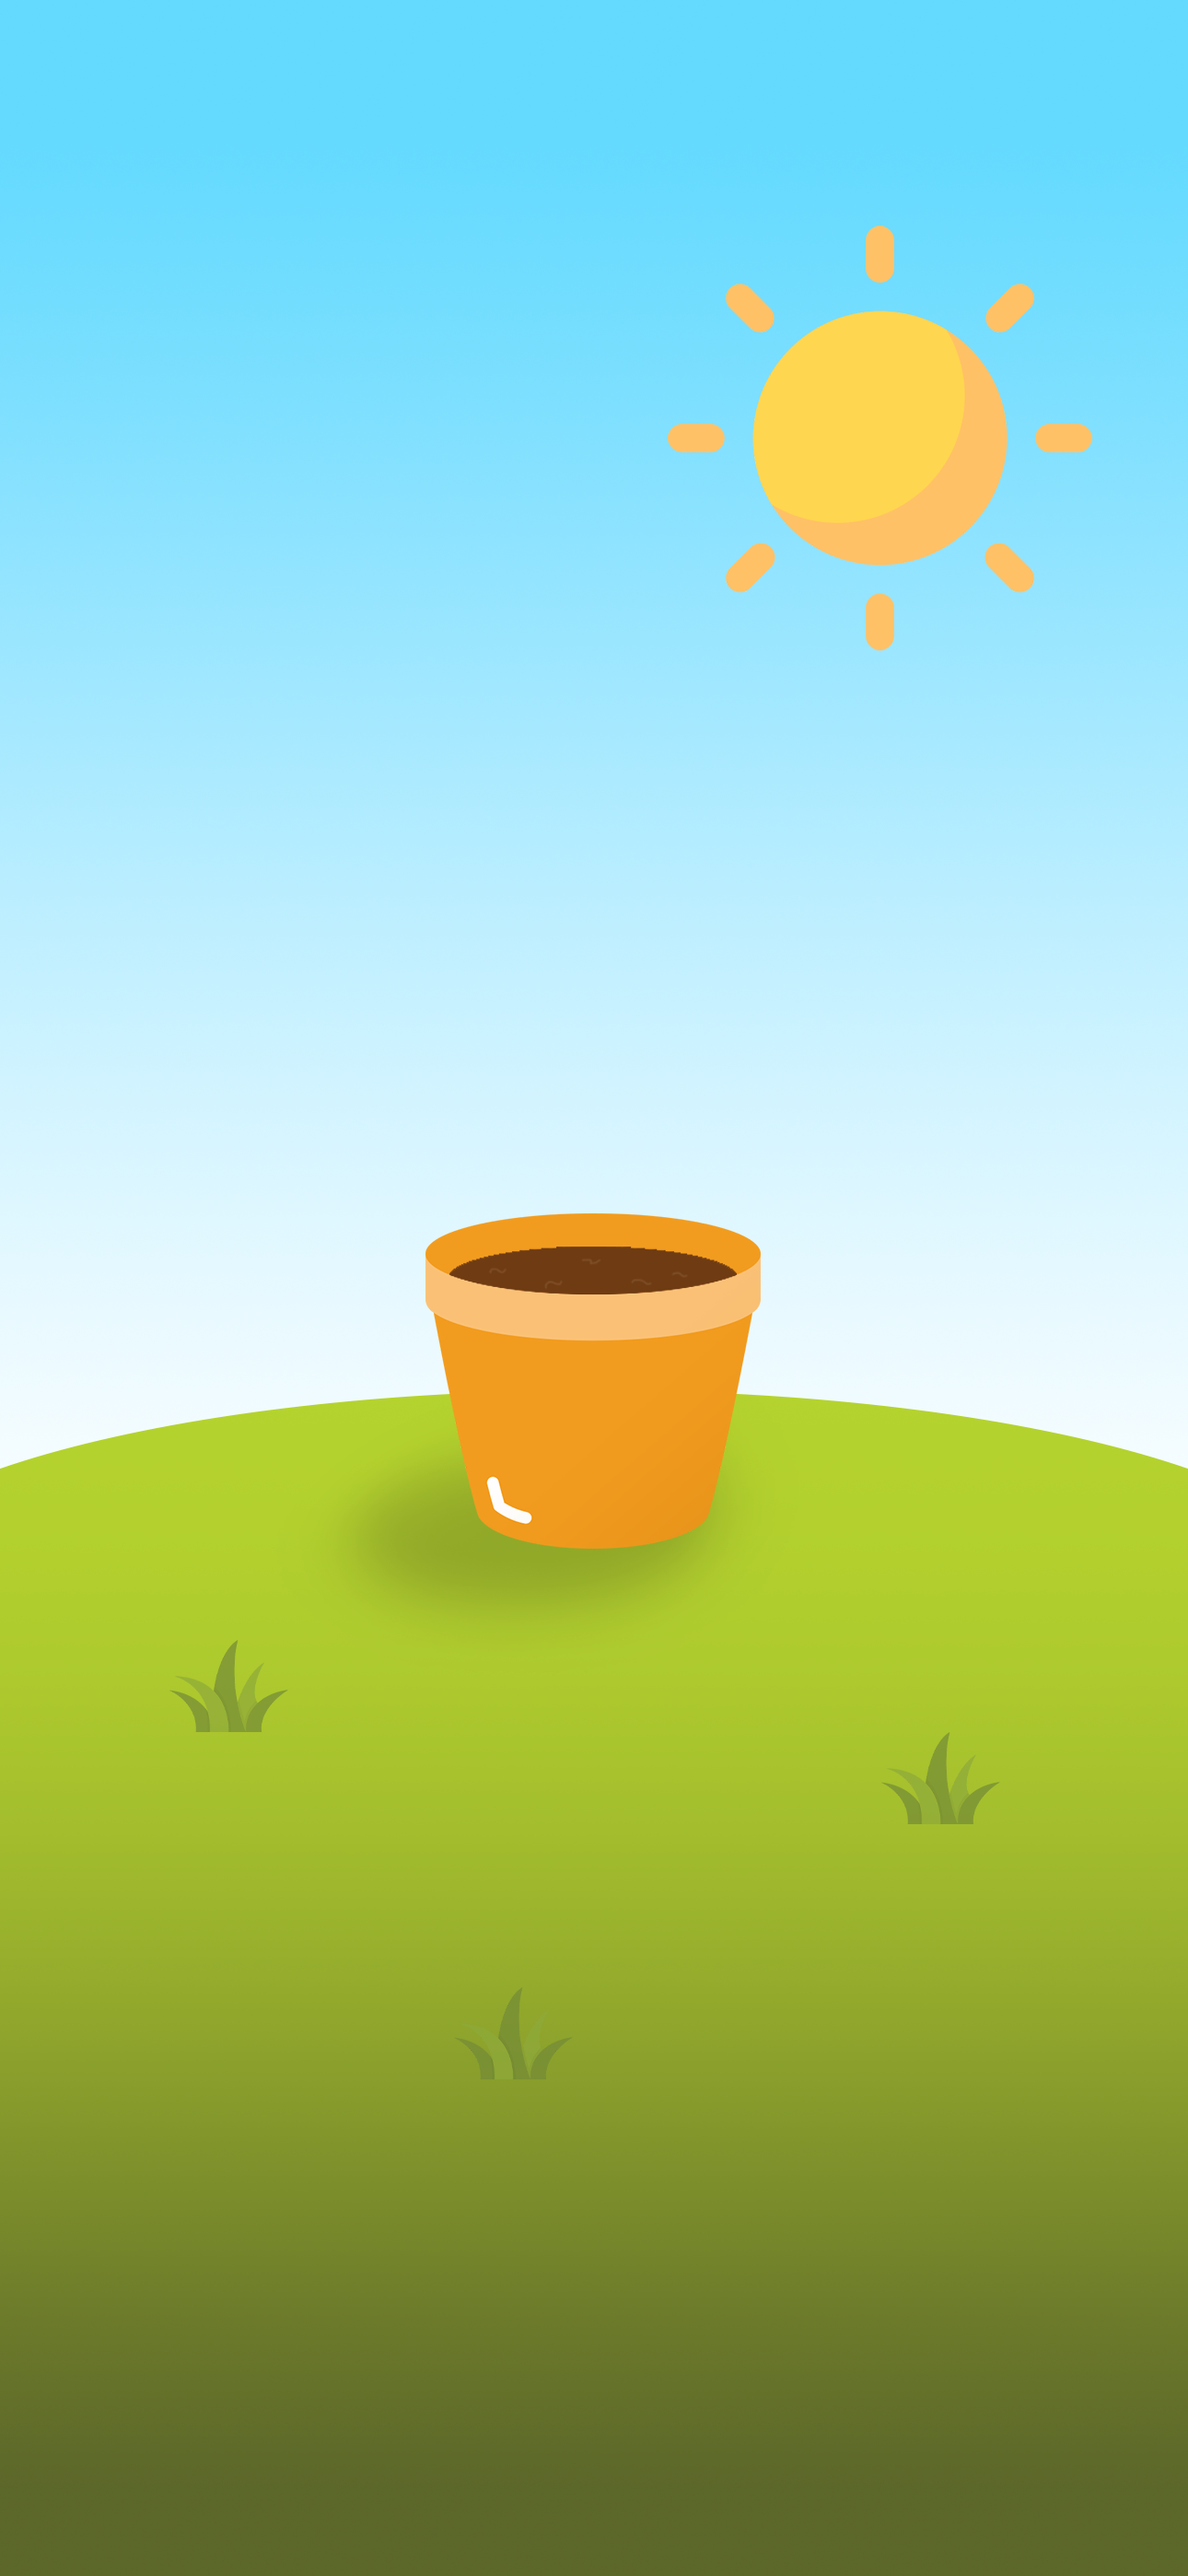
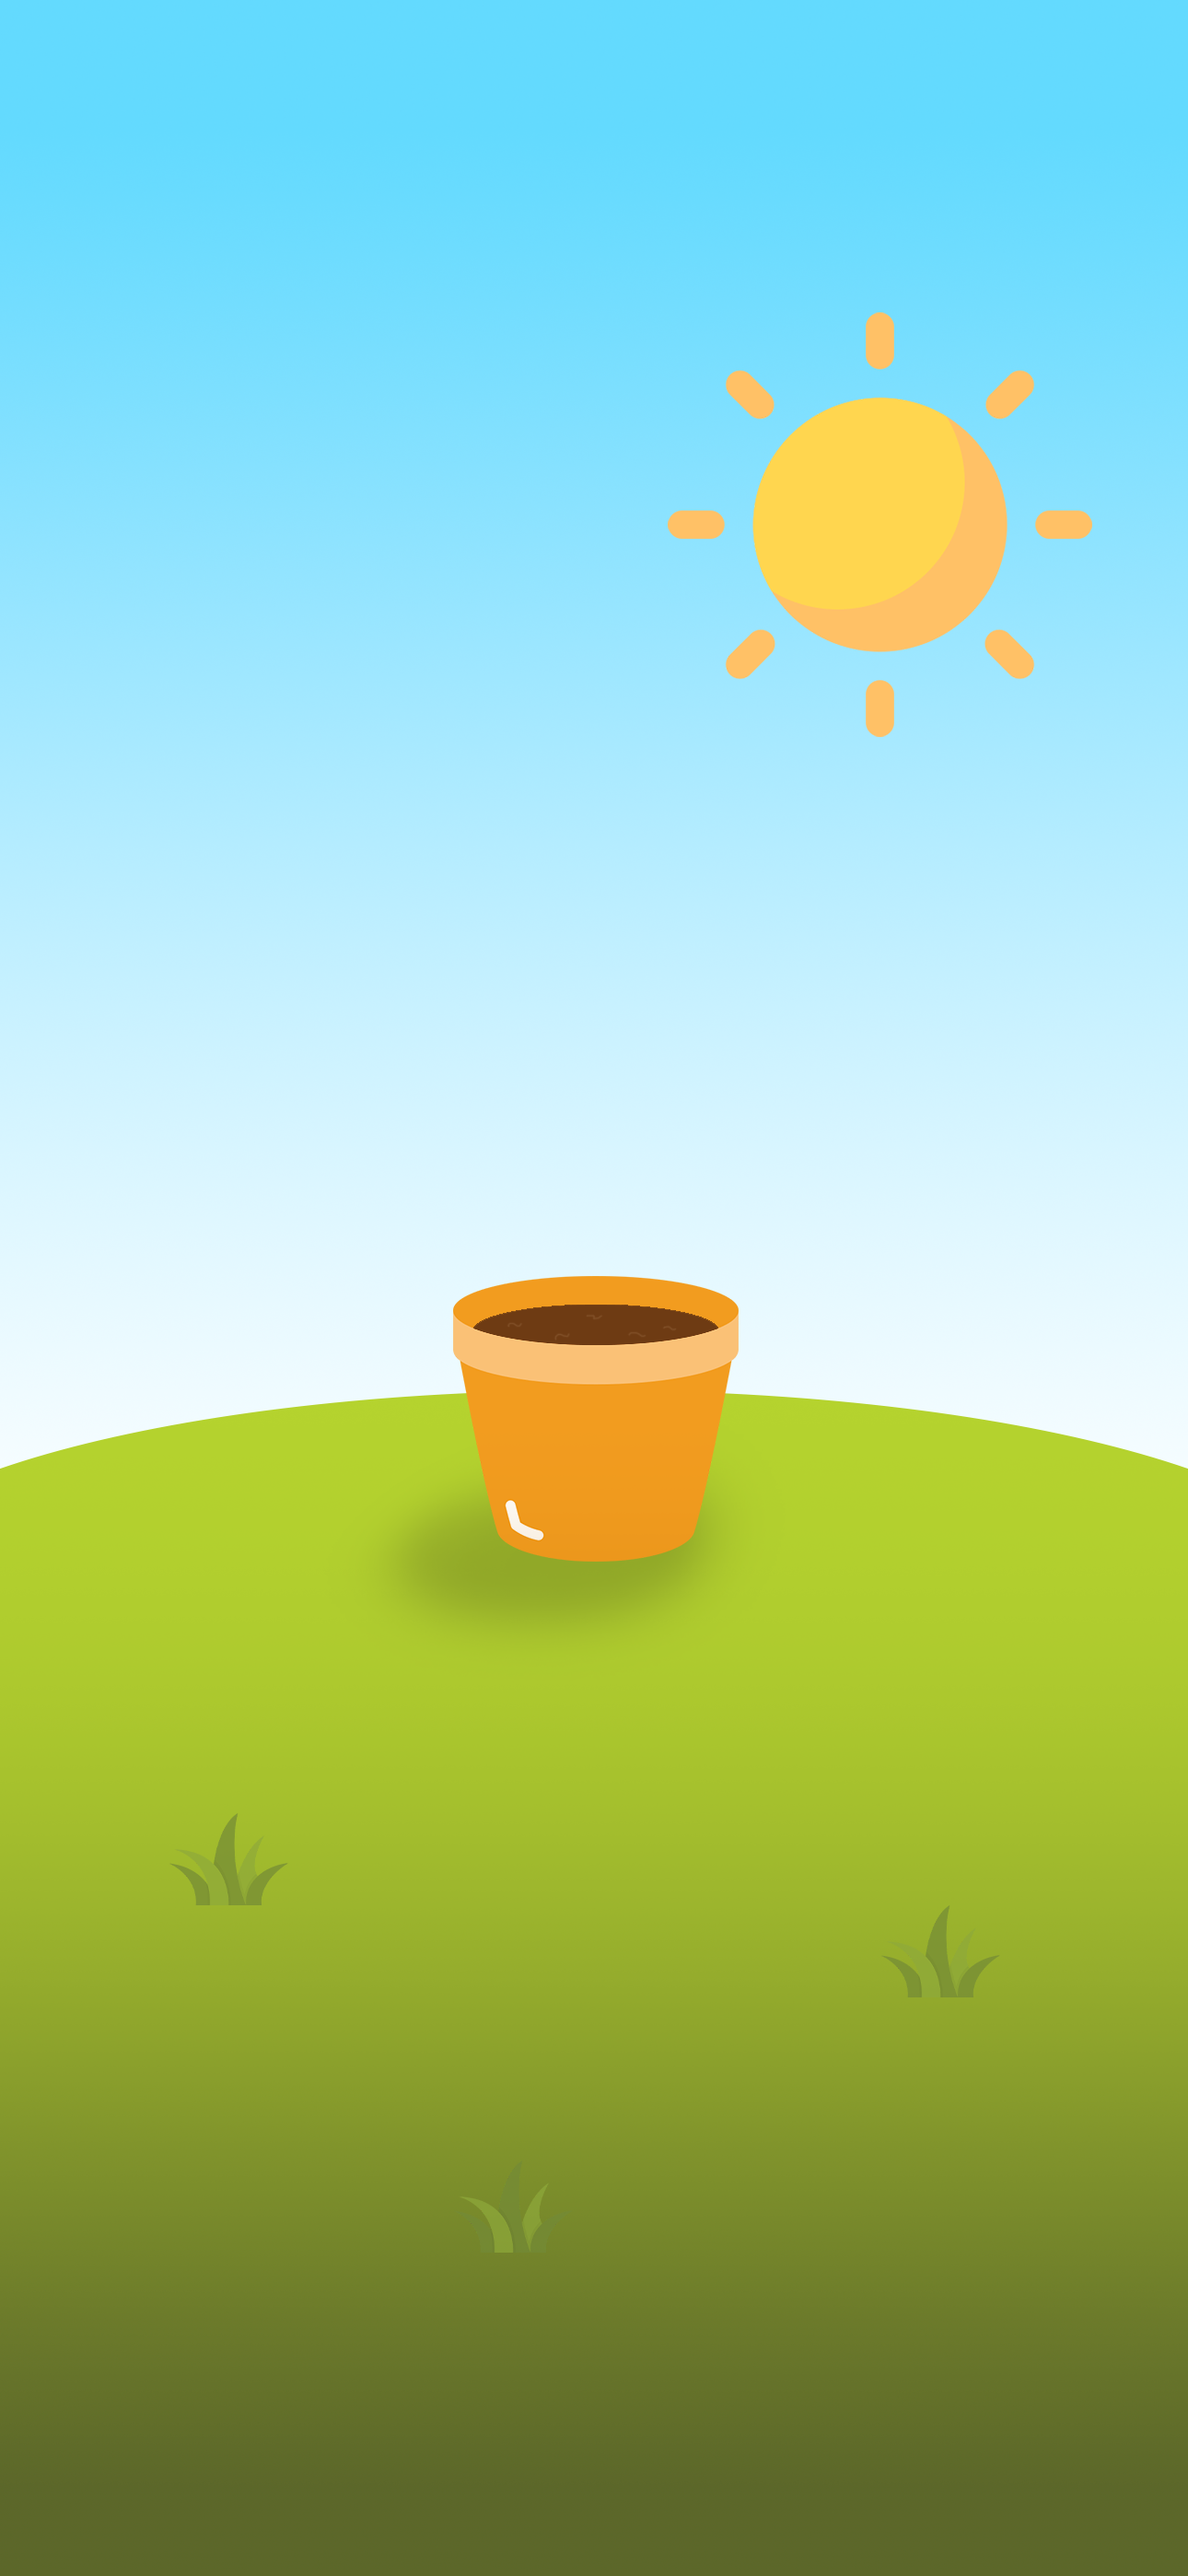
홈화면 수정

diff --git a/lib/Home.dart b/lib/Home.dart
@@ -342,6 +342,36 @@ class home extends State<Home> with WidgetsBindingObserver {
                           ),
                         )),
                   ),
+
+                  // 캘린더
+                  Align(
+                    alignment: const Alignment(0.88, -0.98),
+                    child: GestureDetector(
+                      onTap: () {
+                        // 버튼 클릭 시 이동할 화면으로 네비게이트
+                        Navigator.push(
+                              context,
+                              MaterialPageRoute(
+                                  builder: (context) =>
+                                      calender(
+                                        wateredDate: wateringDates,
+                                      )),
+                        );
+                      },
+                      child: Container(
+                        width: 50,
+                        height: 50,
+                        decoration: const BoxDecoration(
+                          image: DecorationImage(
+                            image: AssetImage('assets/images/graph.png'),
+                            fit: BoxFit.cover,
+                          ),
+                        ),
+                      ),
+                    ),
+                  ),
+
+
                   // 상태바
                   Container(
                       padding: const EdgeInsets.all(10),
@@ -550,7 +580,7 @@ class home extends State<Home> with WidgetsBindingObserver {
                                 ],
                               )),
 
-
+                          
                           // D-day (자란 기간)
                           // SizedBox(
                           //     width: 280,
@@ -618,7 +648,7 @@ class home extends State<Home> with WidgetsBindingObserver {
 
                   // 식물 이미지
                   Align(
-                    alignment: const Alignment(0, -0.135), // 화분 위에 위치하도록 설정
+                    alignment: const Alignment(0, -0.085), // 화분 위에 위치하도록 설정
                     child: Image.asset(
                       plantImage,
                       width: 100,
